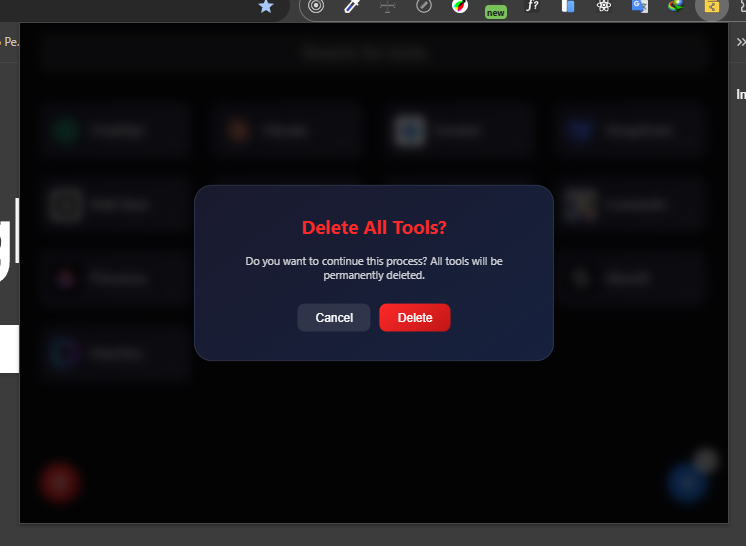
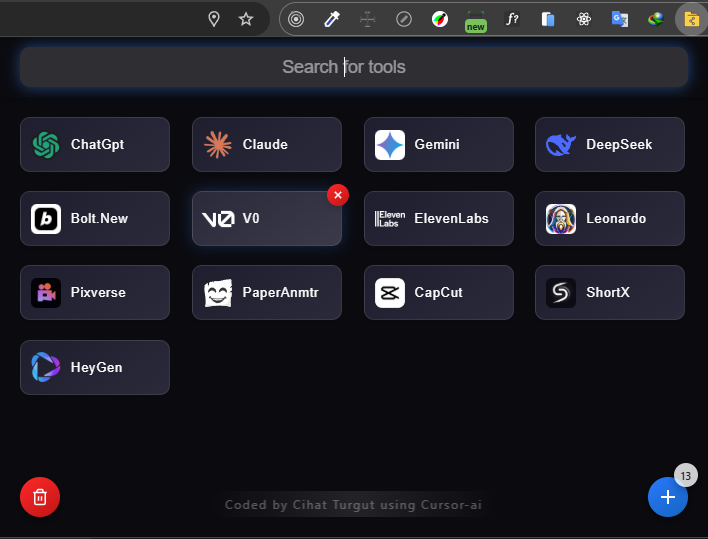
Added footer text & updated screens

diff --git a/styles.css b/styles.css
@@ -727,3 +727,33 @@ body {
   box-shadow: 0 4px 10px rgba(0, 0, 0, 0.3);
   font-weight: 500;
 }
+
+.creator-credit {
+  position: fixed;
+  bottom: 20px;
+  left: 50%;
+  transform: translateX(-50%);
+  font-size: 0.75rem;
+  color: rgba(255, 255, 255, 0.3);
+  font-family: "Segoe UI", Arial, sans-serif;
+  letter-spacing: 1.5px;
+  pointer-events: none;
+  user-select: none;
+  z-index: 99;
+  text-align: center;
+  background: linear-gradient(
+    90deg,
+    transparent,
+    rgba(255, 255, 255, 0.1),
+    transparent
+  );
+  padding: 5px 15px;
+  border-radius: 20px;
+  backdrop-filter: blur(5px);
+  transition: opacity 0.3s ease;
+}
+
+.creator-credit:hover {
+  opacity: 0.8;
+  color: rgba(255, 255, 255, 0.5);
+}

diff --git a/popup.html b/popup.html
@@ -66,6 +66,8 @@
       </svg>
     </button>
 
+    <div class="creator-credit">Coded by Cihat Turgut using Cursor-ai</div>
+
     <button id="addButton" class="add-button">
       <svg
         xmlns="http://www.w3.org/2000/svg"
